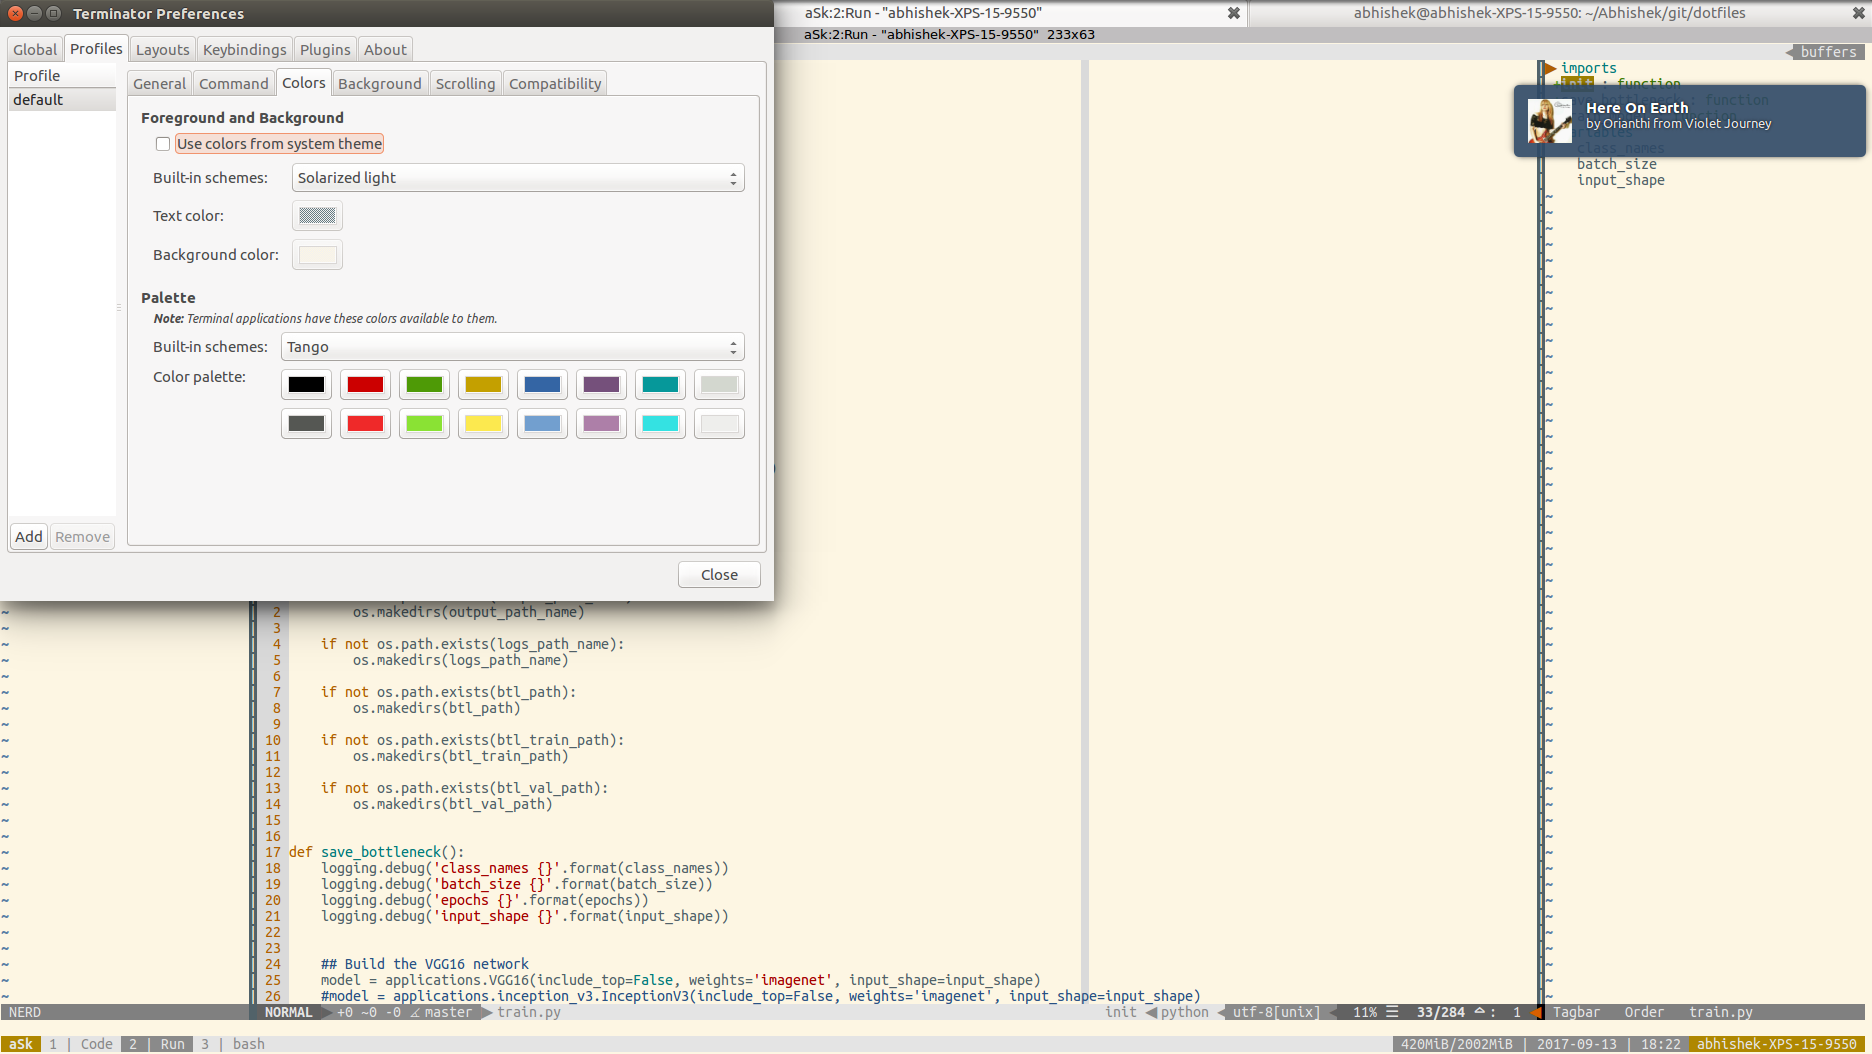
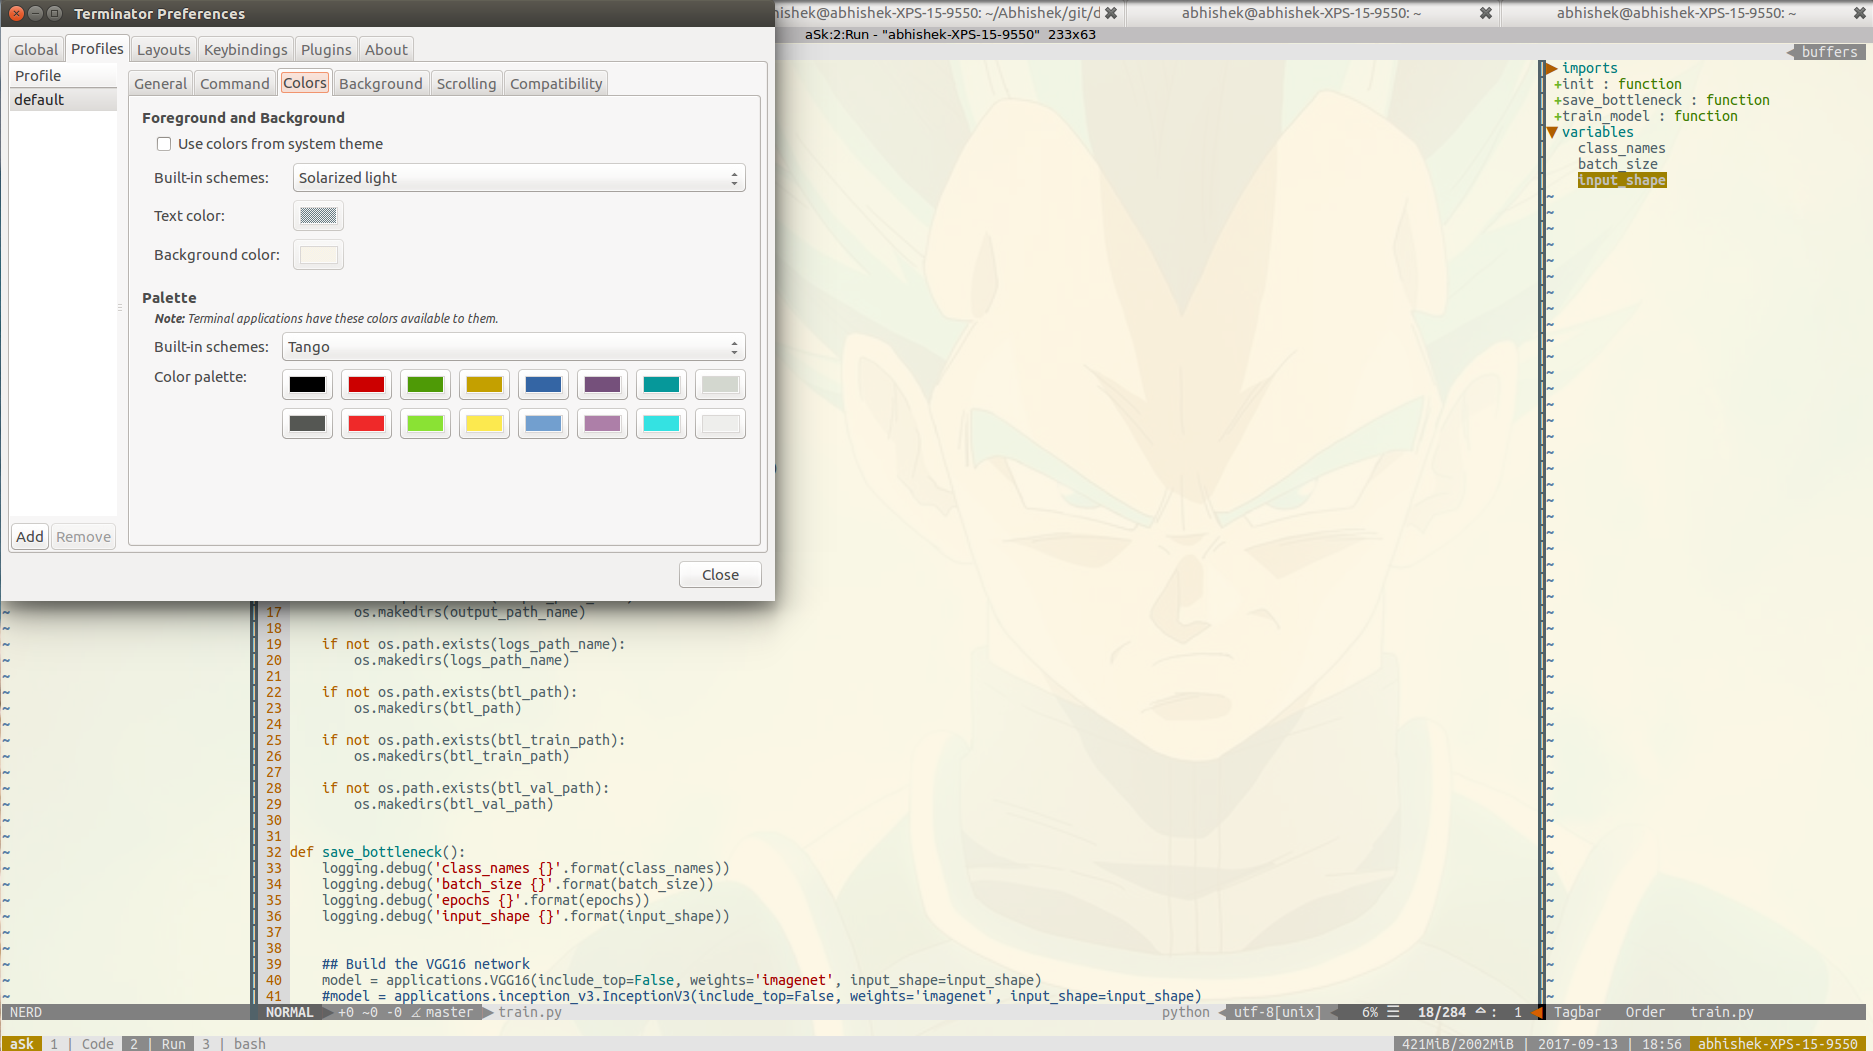
screenshots added

diff --git a/README.md b/README.md
@@ -4,6 +4,8 @@
 
 ![Screenshot](screenshot2.png)
 
+![Screenshot](screenshot3.png)
+
 
 # Vim
 git clone https://github.com/VundleVim/Vundle.vim.git ~/.vim/bundle/Vundle.vim
